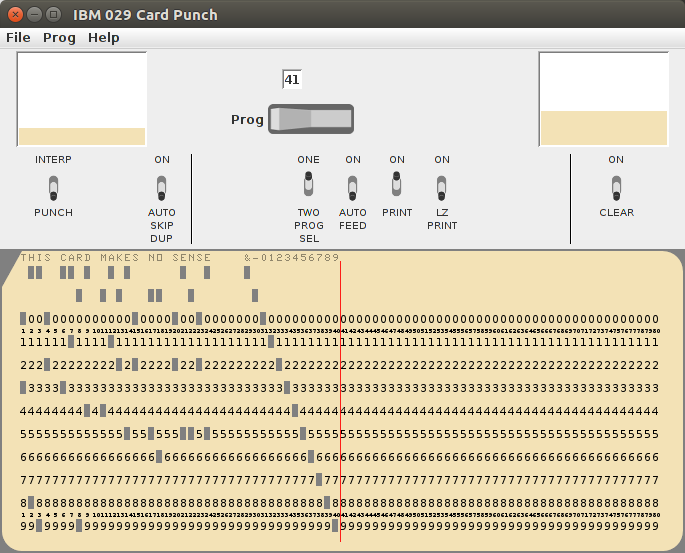
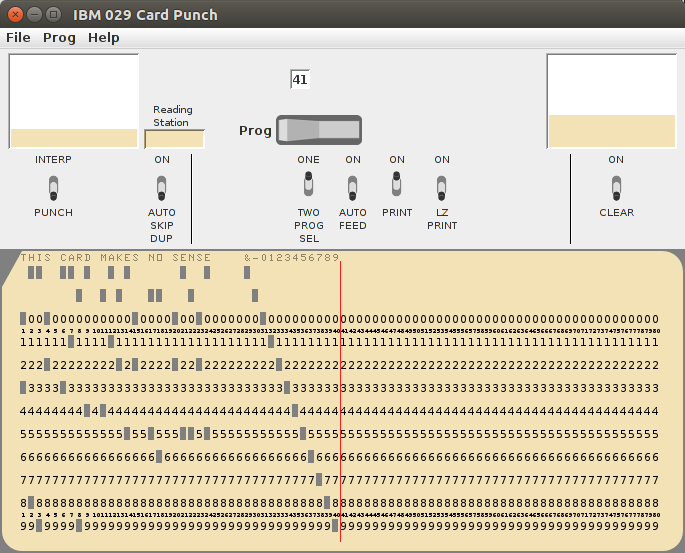
Add command to move current card onto program drum.

diff --git a/cardpunch/docs/CardPunch.html b/cardpunch/docs/CardPunch.html
@@ -13,13 +13,16 @@
 <TR><TD>END, Ctrl-E</TD><TD>Interpret</TD></TR>
 <TR><TD>Backspace</TD><TD>Backup one column</TD></TR>
 <TR><TD>Alt</TD><TD>Multi-Punch</TD></TR>
-<TR><TD>Delete</TD><TD>Un-punch column (magic punch-card white-out)</TD></TR>
-<TR><TD>HOME, Ctrl-B</TD><TD>Jump to column 1</TD></TR>
-<TR><TD>DELETE, Ctrl-X</TD><TD>Discard current card. Leaves punch station empty.</TD></TR>
-<TR><TD>INSERT, Ctrl-N</TD><TD>Release current card, insert new blank card.</TD></TR>
-<TR><TD>F1, Ctrl-A</TD><TD>Toggle between Program Card and current data card.
+<TR><TD>Shift Delete</TD><TD>Un-punch column (magic punch-card white-out)</TD></TR>
+<TR><TD>Home, Ctrl-B</TD><TD>Jump to column 1</TD></TR>
+<TR><TD>Delete, Ctrl-X</TD><TD>Discard current card. Leaves punch station empty.</TD></TR>
+<TR><TD>Insert, Ctrl-N</TD><TD>Release current card, insert new blank card.</TD></TR>
+<TR><TD>F1, Ctrl-A</TD><TD>Toggle between Program Card and current data card view.
 The column indicator is highlighted yellow when the program card is
 in the punch station.
+</TD></TR>
+<TR><TD>Shift F1</TD><TD>Replace program card with current card
+(from punching station).
 </TD></TR>
 </TABLE>
 
@@ -27,24 +30,31 @@ in the punch station.
 "Auto Feed" affects handling at the end of a card after manually punching,
 or "Skip" or "Dup".
 
-<H4>Menus</H4>
-<DL>
-<DT>File->Output</DT>
-<DD>Select a file to receive punched cards</DD>
-<DT>File->Discard (default)</DT>
-<DD>Set output hopper to disard all punched cards</DD>
-<DT>File->Input</DT>
-<DD>Select file to use as input (pre-punched cards)</DD>
-<DT>File->Blank (default)</DT>
-<DD>Set input to an (endless) stack of blank cards</DD>
-<DT>Prog->Load</DT>
-<DD>Load program card from previously saved file</DD>
-<DT>Prog->Save</DT>
-<DD>Save current program card into file</DD>
-</DL>
+<P>The input hopper is located in the upper right corner.
+Clicking on the hopper will start a dialog to add a file.
+Multiple files may be stacked in the hopper.
+Right-clicking on the hopper will remove any files and add 50 blank cards.
+Hovering over the hopper will show the contents.
+
+<P>The output stacker is located in the upper left corner.
+Clicking on the stacker will start a dialog to save (and remove) the contents.
+Shift-clicking on the stacker will pop-up the card viewer on the contents,
+without disturbing the stacker.
+Right clicking on the stacker will discard the contents.
+
+<P>Located right of the stacker is an indicator of the "reading station"
+status, either empty or 1 card present. This serves as a reminder to
+clear this card also before saving stacker contents.
+
+<P>Right of the reading station is the program enable lever. This effectively engages
+the program "star wheels" with the program card.
+
+<P>Above the program enable lever is the column indicator. This shows what column
+will be punched next. This indicator will be yellow when the program card is
+in the punching station.
 
 <H4>Internals</H4>
-<P>Punched cards are saved as 80 16-bit integers, with bits 11-0 having
+<P>Punched cards are saved as 80 16-bit integers (little-endian), with bits 11-0 having
 the punched rows (bit 11 = 12-Punch, bit 10 = 11-Punch, bit 9 = Zero-Punch,
 ... bit 0 = Nine-Punch). Bit 12 indicates whether the column should be printed
 (printer was on when the column was punched, or the column was later run through

diff --git a/cardpunch/www/CardPunch.html b/cardpunch/www/CardPunch.html
@@ -13,13 +13,16 @@
 <TR><TD>END, Ctrl-E</TD><TD>Interpret</TD></TR>
 <TR><TD>Backspace</TD><TD>Backup one column</TD></TR>
 <TR><TD>Alt</TD><TD>Multi-Punch</TD></TR>
-<TR><TD>Delete</TD><TD>Un-punch column (magic punch-card white-out)</TD></TR>
-<TR><TD>HOME, Ctrl-B</TD><TD>Jump to column 1</TD></TR>
-<TR><TD>DELETE, Ctrl-X</TD><TD>Discard current card. Leaves punch station empty.</TD></TR>
-<TR><TD>INSERT, Ctrl-N</TD><TD>Release current card, insert new blank card.</TD></TR>
-<TR><TD>F1, Ctrl-A</TD><TD>Toggle between Program Card and current data card.
+<TR><TD>Shift Delete</TD><TD>Un-punch column (magic punch-card white-out)</TD></TR>
+<TR><TD>Home, Ctrl-B</TD><TD>Jump to column 1</TD></TR>
+<TR><TD>Delete, Ctrl-X</TD><TD>Discard current card. Leaves punch station empty.</TD></TR>
+<TR><TD>Insert, Ctrl-N</TD><TD>Release current card, insert new blank card.</TD></TR>
+<TR><TD>F1, Ctrl-A</TD><TD>Toggle between Program Card and current data card view.
 The column indicator is highlighted yellow when the program card is
 in the punch station.
+</TD></TR>
+<TR><TD>Shift F1</TD><TD>Replace program card with current card
+(from punching station).
 </TD></TR>
 </TABLE>
 
@@ -27,24 +30,31 @@ in the punch station.
 "Auto Feed" affects handling at the end of a card after manually punching,
 or "Skip" or "Dup".
 
-<H4>Menus</H4>
-<DL>
-<DT>File->Output</DT>
-<DD>Select a file to receive punched cards</DD>
-<DT>File->Discard (default)</DT>
-<DD>Set output hopper to disard all punched cards</DD>
-<DT>File->Input</DT>
-<DD>Select file to use as input (pre-punched cards)</DD>
-<DT>File->Blank (default)</DT>
-<DD>Set input to an (endless) stack of blank cards</DD>
-<DT>Prog->Load</DT>
-<DD>Load program card from previously saved file</DD>
-<DT>Prog->Save</DT>
-<DD>Save current program card into file</DD>
-</DL>
+<P>The input hopper is located in the upper right corner.
+Clicking on the hopper will start a dialog to add a file.
+Multiple files may be stacked in the hopper.
+Right-clicking on the hopper will remove any files and add 50 blank cards.
+Hovering over the hopper will show the contents.
+
+<P>The output stacker is located in the upper left corner.
+Clicking on the stacker will start a dialog to save (and remove) the contents.
+Shift-clicking on the stacker will pop-up the card viewer on the contents,
+without disturbing the stacker.
+Right clicking on the stacker will discard the contents.
+
+<P>Located right of the stacker is an indicator of the "reading station"
+status, either empty or 1 card present. This serves as a reminder to
+clear this card also before saving stacker contents.
+
+<P>Right of the reading station is the program enable lever. This effectively engages
+the program "star wheels" with the program card.
+
+<P>Above the program enable lever is the column indicator. This shows what column
+will be punched next. This indicator will be yellow when the program card is
+in the punching station.
 
 <H4>Internals</H4>
-<P>Punched cards are saved as 80 16-bit integers, with bits 11-0 having
+<P>Punched cards are saved as 80 16-bit integers (little-endian), with bits 11-0 having
 the punched rows (bit 11 = 12-Punch, bit 10 = 11-Punch, bit 9 = Zero-Punch,
 ... bit 0 = Nine-Punch). Bit 12 indicates whether the column should be printed
 (printer was on when the column was punched, or the column was later run through

diff --git a/cardpunch/PunchCardDeck.java b/cardpunch/PunchCardDeck.java
@@ -962,6 +962,7 @@ class PunchCardDeck extends PunchCard
 	// Must not tie-up the Event Dispatch Thread... queue-up key and return...
 	public void keyPressed(KeyEvent e) {
 		boolean multi = ((e.getModifiers() & InputEvent.ALT_MASK) != 0);
+		boolean shift = ((e.getModifiers() & InputEvent.SHIFT_MASK) != 0);
 		int k = e.getKeyCode();
 		int evt;
 		if (k == KeyEvent.VK_F6) {
@@ -971,11 +972,19 @@ class PunchCardDeck extends PunchCard
 		} else if (k == KeyEvent.VK_END) {
 			evt = 005; // Ctrl-E interpret
 		} else if (k == KeyEvent.VK_DELETE) {
-			evt = 030; // Ctrl-X delete card
+			if (shift) {
+				evt = 0177; // DEL erase punches
+			} else {
+				evt = 030; // Ctrl-X delete card
+			}
 		} else if (k == KeyEvent.VK_INSERT) {
 			evt = 016; // Ctrl-N insert new card
 		} else if (k == KeyEvent.VK_F1) {
-			evt = 001; // Ctrl-A program card in/out
+			if (shift) {
+				evt = 0x4000; // curr to prog drum...
+			} else {
+				evt = 001; // Ctrl-A program card in/out
+			}
 		} else {
 			char c = e.getKeyChar();
 			if (c == KeyEvent.CHAR_UNDEFINED) {
@@ -1001,7 +1010,22 @@ class PunchCardDeck extends PunchCard
 			} catch (Exception ee) {
 				break;
 			}
-			if (c == 0x3000) {
+			if (c == 0x4000) {	// move current to program drum
+				if (_noCard) {
+					continue;
+				}
+				if (_currIsProg) {
+					// ???
+					continue;
+				}
+				_currIsProg = true;
+				_codeCard = true; // NO code card...
+				_prog = _code;
+				_code = null;
+				finishCard(false, false, false);
+				continue;
+			}
+			if (c == 0x3000) {	// CLEAR
 				finishCard(true, false, true);
 				// We never feed a new card here, so no need
 				// to check for any automated tasks.
@@ -1015,7 +1039,7 @@ class PunchCardDeck extends PunchCard
 				}
 				continue;
 			}
-			if (c == 0x2000) {
+			if (c == 0x2000) {	// RELease
 				// starting new card, check for automated tasks
 				// (includes interpret).
 				newCheck();
